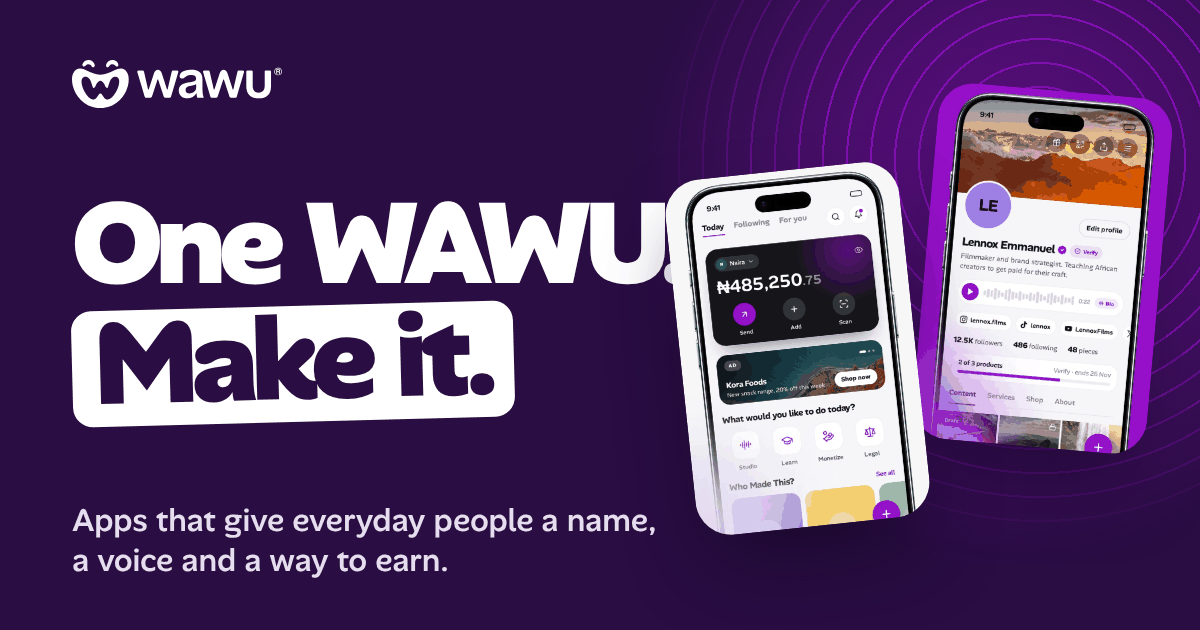
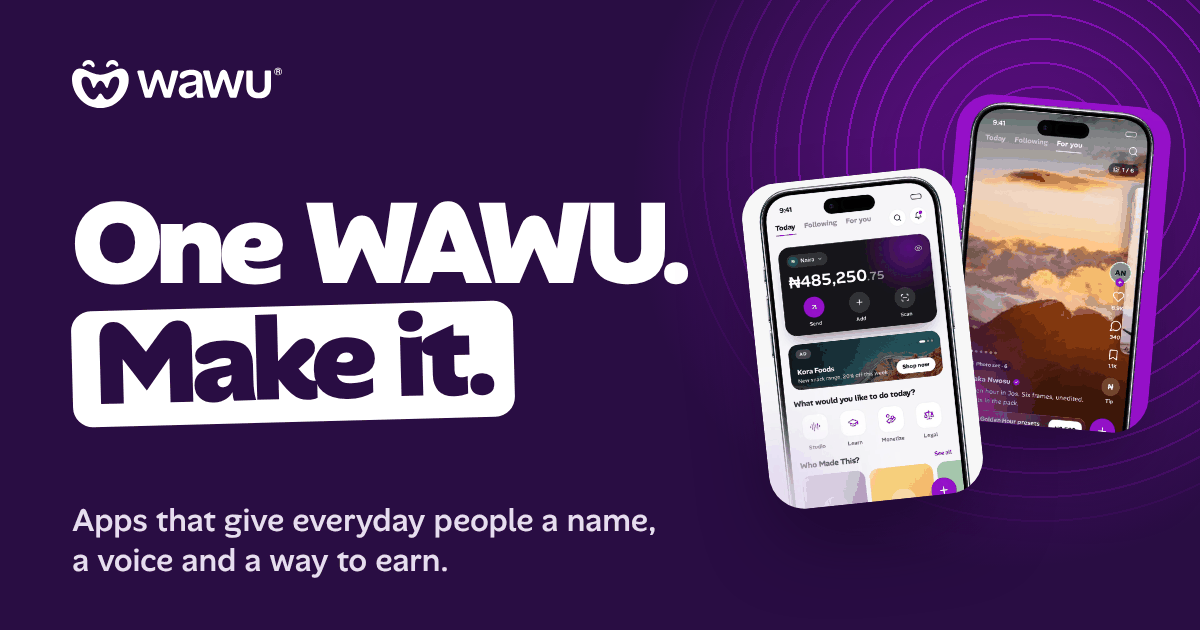
BRAND-SITE round 1: VOICES says only what the example says, no SLIDER 3
- VOICES page (and its tile, description and link-preview picture) follows the
  boss's example only: Talk, Listen, Vote; speak, no typing; others reply with
  reactions and comments. The anonymity question, "recorded live in the app" and
  "Your voice, live" are gone. Launch dates stay "coming soon". The two FAQ
  promises about store links and being first to know are gone from both app
  pages.
- SLIDER 3 (a Shop tab on the profile, against R-9) is not used anywhere: hero,
  home tile, gallery (now four screens) and the brand link-preview picture.
  The file is deleted.
- check-site-mode: live assertions that /wawu-theme.mp3 (audio) and
  /play/background-audio.mp4 (video/mp4) answer 200 in both modes; checks that
  SLIDER 3 and the VOICES claims stay out.
- /press no longer overflows at 320 px (grid track and the contact links).
- wawu-og-brand.png: the phones no longer cover the headline.
- .qa-audit specs now name the signed-in About page /settings/about.

Claude-Session: https://claude.ai/code/session_01YVWyVbutb6jEWsPXBkYeY9

Changed region(s): [[0.5242, 0.1206, 0.9867, 0.8444]]

diff --git a/src/app/(site)/voices/page.tsx b/src/app/(site)/voices/page.tsx
@@ -13,29 +13,28 @@ import { OG_IMAGES, pageMetadata } from "../_lib/page-metadata";
 
 export const metadata: Metadata = pageMetadata({
   title: "VOICES · Everybody gets a voice · WAWU",
-  description: "VOICES is a voice-first app by WAWU where everybody gets a voice. Talk, listen, react and gist.",
+  description: "VOICES is a voice-first app by WAWU where everybody gets a voice. Talk, listen, vote and gist.",
   path: "/voices",
   image: OG_IMAGES.voices,
   imageAlt: "VOICES, an app by WAWU",
 });
 
 const WHAT_IT_IS = [
-  { title: "Talk.", body: "Say what you think in your own voice, recorded live in the app." },
+  { title: "Talk.", body: "Say what you think in your own voice." },
   { title: "Listen.", body: "Hear what people are saying about the things that matter." },
-  { title: "React.", body: "Answer with an emoji or a typed reply, and join the gist." },
+  { title: "Vote.", body: "Pick a side, see where the conversation is heading, and join in." },
 ] as const;
 
 const HOW_IT_WORKS = [
   { title: "Pick a topic.", body: "Choose the things you care about." },
   { title: "Speak.", body: "Record your voice. No typing needed." },
-  { title: "Join the gist.", body: "Hear others, react and reply." },
+  { title: "Discuss and vote.", body: "Hear others, react and vote." },
 ] as const;
 
 const FAQ = [
-  { question: "When does it open?", answer: "Soon. VOICES is coming to the App Store and Google Play, and this page will carry the store links the day it opens." },
-  { question: "Do I have to type?", answer: "No. You post by speaking. Replies are typed, and reactions are emojis." },
-  { question: "Can I stay anonymous?", answer: "Yes. You can post as Anonymous, with a masked voice and no trace on your profile." },
-  { question: "Where do I get it?", answer: "On the App Store and Google Play. Register now and you will be first to know." },
+  { question: "When does it go live?", answer: "VOICES is coming soon on the App Store and Google Play." },
+  { question: "Do I have to type?", answer: "No. You speak. Others can reply with reactions and comments." },
+  { question: "Where do I get it?", answer: "On the Google Play Store and the Apple App Store, coming soon." },
 ] as const;
 
 export default function VoicesPage() {
@@ -48,7 +47,7 @@ export default function VoicesPage() {
         sub={
           <>
             <span className="mb-2 block text-[clamp(1.6rem,3.4vw,2.2rem)] font-extrabold tracking-[-0.02em] text-white">VOICES</span>
-            Everybody gets a voice. Talk, listen, react and gist.
+            Everybody gets a voice. Talk, listen, vote and gist.
           </>
         }
         aside={
@@ -57,7 +56,7 @@ export default function VoicesPage() {
               <span className="grid h-14 w-14 shrink-0 place-items-center rounded-full bg-white text-site-green">
                 <MicIcon className="h-7 w-7" />
               </span>
-              <span className="text-[17px] font-bold text-white">Your voice, live</span>
+              <span className="text-[17px] font-bold text-white">Everybody gets a voice.</span>
             </div>
             <WaveBars className="h-[130px]" barClassName="bg-site-mint" />
           </div>

diff --git a/src/app/(site)/press/page.tsx b/src/app/(site)/press/page.tsx
@@ -21,26 +21,26 @@ export default function PressPage() {
       <PageHero eyebrow="Press and media" title="Press." sub="What WAWU is, the logo files and who to talk to." />
 
       <section className="py-20 sm:py-28">
-        <Wrap className="grid gap-14 lg:grid-cols-[1.3fr_1fr] lg:gap-20">
-          <div>
+        <Wrap className="grid grid-cols-1 gap-14 lg:grid-cols-[1.3fr_1fr] lg:gap-20">
+          <div className="min-w-0">
             <h2 className="m-0 mb-5 text-[clamp(1.9rem,4vw,2.8rem)] font-extrabold leading-[1] tracking-[-0.035em] text-site-deep">About WAWU</h2>
             <p className="m-0 max-w-[56ch] text-[clamp(1.1rem,2vw,1.3rem)] leading-relaxed text-site-body">
               WAWU builds apps that give everyday people a name, a voice and a way to earn. Its apps include WHO MADE THIS?, the creators and professionals platform, and VOICES, where everybody gets a voice. Built in Africa. Open to the world.
             </p>
             <p className="mb-0 mt-5 text-[16px] text-site-mute">Company: {COMPANY}</p>
           </div>
-          <div id="contact" className="rounded-[28px] border-2 border-site-line bg-white p-7 sm:p-8">
+          <div id="contact" className="min-w-0 rounded-[28px] border-2 border-site-line bg-white p-5 sm:p-8">
             <h2 className="m-0 mb-5 text-[clamp(1.5rem,3vw,2rem)] font-extrabold tracking-[-0.03em] text-site-deep">Media contact</h2>
             <ul className="m-0 flex list-none flex-col gap-4 p-0">
               <li>
-                <a href={`mailto:${CONTACT_EMAIL}?subject=${encodeURIComponent("Press enquiry")}`} className="inline-flex items-center gap-3 text-[17px] font-bold text-site-purple underline-offset-4 hover:text-site-purple-hover hover:underline">
-                  <MailIcon className="h-5 w-5" />
+                <a href={`mailto:${CONTACT_EMAIL}?subject=${encodeURIComponent("Press enquiry")}`} className="inline-flex items-center gap-3 text-[15px] font-bold [overflow-wrap:anywhere] min-[380px]:text-[17px] text-site-purple underline-offset-4 hover:text-site-purple-hover hover:underline">
+                  <MailIcon className="h-5 w-5 shrink-0" />
                   {CONTACT_EMAIL}
                 </a>
               </li>
               <li>
-                <a href={WHATSAPP_URL} className="inline-flex items-center gap-3 text-[17px] font-bold text-site-purple underline-offset-4 hover:text-site-purple-hover hover:underline">
-                  <ChatIcon className="h-5 w-5" />
+                <a href={WHATSAPP_URL} className="inline-flex items-center gap-3 text-[15px] font-bold [overflow-wrap:anywhere] min-[380px]:text-[17px] text-site-purple underline-offset-4 hover:text-site-purple-hover hover:underline">
+                  <ChatIcon className="h-5 w-5 shrink-0" />
                   WhatsApp {WHATSAPP_DISPLAY}
                 </a>
               </li>

diff --git a/src/app/(site)/_components/ScreenGallery.tsx b/src/app/(site)/_components/ScreenGallery.tsx
@@ -1,10 +1,10 @@
 import { WMT_SCREENS, ScreenTile, type ScreenId } from "./ScreenTile";
 
-const ORDER: ScreenId[] = ["home", "profile", "feed", "creator", "unlock"];
+const ORDER: ScreenId[] = ["home", "feed", "creator", "unlock"];
 
 /**
- * The five screens in a row. On a phone the row scrolls sideways (it can be
- * focused and scrolled with the arrow keys); from a tablet up all five fit.
+ * The four screens in a row. On a phone the row scrolls sideways (it can be
+ * focused and scrolled with the arrow keys); from a tablet up all four fit.
  */
 export function ScreenGallery() {
   return (
@@ -12,11 +12,11 @@ export function ScreenGallery() {
       role="region"
       aria-label="Screens from WHO MADE THIS?"
       tabIndex={0}
-      className="-mx-5 flex snap-x snap-mandatory gap-4 overflow-x-auto px-5 pb-6 sm:-mx-8 sm:px-8 md:mx-0 md:grid md:grid-cols-5 md:gap-4 md:overflow-visible md:px-0 lg:gap-6 [scrollbar-width:none] [&::-webkit-scrollbar]:hidden"
+      className="-mx-5 flex snap-x snap-mandatory gap-4 overflow-x-auto px-5 pb-6 sm:-mx-8 sm:px-8 md:mx-0 md:grid md:grid-cols-4 md:gap-4 md:overflow-visible md:px-0 lg:gap-6 [scrollbar-width:none] [&::-webkit-scrollbar]:hidden"
     >
       {ORDER.map((id) => (
         <figure key={id} className="m-0 w-[68%] shrink-0 snap-center sm:w-[44%] md:w-auto">
-          <ScreenTile id={id} sizes="(min-width: 1200px) 220px, (min-width: 768px) 18vw, 68vw" />
+          <ScreenTile id={id} sizes="(min-width: 1200px) 270px, (min-width: 768px) 22vw, 68vw" />
           <figcaption className="mt-4 text-[14.5px] leading-snug text-site-mute">{WMT_SCREENS[id].caption}</figcaption>
         </figure>
       ))}

diff --git a/src/app/(site)/_components/AppTiles.tsx b/src/app/(site)/_components/AppTiles.tsx
@@ -27,7 +27,7 @@ export function AppTiles() {
             <ArrowIcon className="h-[18px] w-[18px] transition-transform duration-200 group-hover:translate-x-1 motion-reduce:transition-none" />
           </span>
           <div aria-hidden="true" className="pointer-events-none absolute -bottom-24 -right-4 w-[56%] max-w-[300px] rotate-[7deg] transition-transform duration-500 group-hover:rotate-[4deg] motion-reduce:transition-none sm:right-6 sm:w-[44%]">
-            <ScreenTile id="profile" sizes="(min-width: 768px) 260px, 50vw" className="shadow-site-phone" />
+            <ScreenTile id="unlock" sizes="(min-width: 768px) 260px, 50vw" className="shadow-site-phone" />
           </div>
         </Link>
       </li>
@@ -40,7 +40,7 @@ export function AppTiles() {
           <StoreStatus app="voices" tone="dark" linkless className="self-start text-[13px]" />
           <p className="m-0 mt-8 text-[clamp(3.4rem,8vw,5.5rem)] font-extrabold leading-[0.9] tracking-[-0.045em]">Say it.</p>
           <p className="m-0 mt-3 text-[18px] font-bold tracking-[0.02em]">VOICES</p>
-          <p className="m-0 mt-2 max-w-[24ch] text-[17px] leading-snug text-white/90">Everybody gets a voice. Talk, listen, react and gist.</p>
+          <p className="m-0 mt-2 max-w-[24ch] text-[17px] leading-snug text-white/90">Everybody gets a voice. Talk, listen, vote and gist.</p>
           <span className="relative z-10 mt-6 inline-flex items-center gap-2 text-[16px] font-bold">
             See the app
             <ArrowIcon className="h-[18px] w-[18px] transition-transform duration-200 group-hover:translate-x-1 motion-reduce:transition-none" />

diff --git a/src/app/(site)/who-made-this/page.tsx b/src/app/(site)/who-made-this/page.tsx
@@ -34,9 +34,9 @@ const HOW_IT_WORKS = [
 
 const FAQ = [
   { question: "Does it cost anything to join?", answer: "Signing up costs nothing. A verified tick is a paid extra: it shows people you are real and lifts your upload limits." },
-  { question: "When does it open?", answer: "Soon. WHO MADE THIS? is coming to the App Store and Google Play, and this page will carry the store links the day it opens." },
+  { question: "When does it go live?", answer: "WHO MADE THIS? is coming soon on the App Store and Google Play." },
   { question: "Who is it for?", answer: "Creators, professionals, founders, artists and builders: anyone with something to show or sell." },
-  { question: "Where do I get it?", answer: "On the App Store and Google Play. Register now and you will be first to know." },
+  { question: "Where do I get it?", answer: "On the Google Play Store and the Apple App Store, coming soon." },
 ] as const;
 
 export default function WhoMadeThisPage() {
@@ -80,7 +80,7 @@ export default function WhoMadeThisPage() {
 
       <section aria-labelledby="screens-title" className="border-y border-site-line bg-white py-20 sm:py-28">
         <Wrap>
-          <SectionHead eyebrow="In the app" title={<span id="screens-title">See it.</span>} lead="Five screens from WHO MADE THIS?: your wallet, your profile, the feed, creators and paid work." />
+          <SectionHead eyebrow="In the app" title={<span id="screens-title">See it.</span>} lead="Four screens from WHO MADE THIS?: your wallet, the feed, creators and paid work." />
           <div className="mt-12">
             <ScreenGallery />
           </div>

diff --git a/src/app/(site)/_components/ScreenTile.tsx b/src/app/(site)/_components/ScreenTile.tsx
@@ -1,12 +1,11 @@
 import Image from "next/image";
 import { cn } from "@/lib/cn";
 
-export type ScreenId = "home" | "profile" | "feed" | "creator" | "unlock";
+export type ScreenId = "home" | "feed" | "creator" | "unlock";
 
-/** The five WHO MADE THIS? screens the owner approved for the web (the store pictures, cropped to the phone). */
+/** The four WHO MADE THIS? screens the owner approved for the web (the store pictures, cropped to the phone). */
 export const WMT_SCREENS: Record<ScreenId, { alt: string; caption: string }> = {
   home: { alt: "The Today screen in WHO MADE THIS?: a naira wallet with Send, Add and Scan, and shortcuts to Studio, Learn, Monetize and Legal.", caption: "Today: your wallet and everything you can do next." },
-  profile: { alt: "A creator profile in WHO MADE THIS?: a verified name, a voice bio, social links and a grid of content.", caption: "Your profile: your name on all of your work." },
   feed: { alt: "The For you feed in WHO MADE THIS?: a photo post with like, comment, save and tip buttons.", caption: "For you: work from creators, in photos, video and audio." },
   creator: { alt: "A creator card in WHO MADE THIS?: followers, posts and rating, with a Follow button.", caption: "Follow the people whose work you like." },
   unlock: { alt: "A paid PDF in WHO MADE THIS?: a preview of the cover, the price in naira and an Unlock button.", caption: "Unlock paid work: preview first, then pay from your wallet." },

diff --git a/src/app/(site)/about/page.tsx b/src/app/(site)/about/page.tsx
@@ -35,7 +35,7 @@ export default function AboutPage() {
       />
 
       <section className="py-20 sm:py-28">
-        <Wrap className="grid gap-14 lg:grid-cols-2 lg:gap-20">
+        <Wrap className="grid grid-cols-1 gap-14 lg:grid-cols-2 lg:gap-20">
           <div>
             <h2 className="m-0 mb-5 text-[clamp(1.9rem,4vw,2.8rem)] font-extrabold leading-[1] tracking-[-0.035em] text-site-deep">What we do.</h2>
             <p className="m-0 max-w-[52ch] text-[clamp(1.1rem,2vw,1.3rem)] leading-relaxed text-site-body">

diff --git a/src/app/(site)/_components/HeroScreens.tsx b/src/app/(site)/_components/HeroScreens.tsx
@@ -12,7 +12,7 @@ export function HeroScreens() {
         <ScreenTile id="home" priority sizes="(min-width: 1024px) 270px, 200px" />
       </div>
       <div className="site-float absolute right-0 top-0 w-[56%] rotate-[4deg] [--site-tilt:4deg]">
-        <ScreenTile id="profile" priority sizes="(min-width: 1024px) 270px, 200px" />
+        <ScreenTile id="feed" priority sizes="(min-width: 1024px) 270px, 200px" />
       </div>
     </div>
   );

diff --git a/docs/BRAND-SITE.md b/docs/BRAND-SITE.md
@@ -7,7 +7,7 @@ wawuafrica.com is the WAWU brand website: a landing site for the company and its
 | Path | File | What it is |
 |---|---|---|
 | `/` | `src/app/(site)/page.tsx` | Home: hero with the rotating word, marquee, known for, the two apps, conference, how we build, partner strip, build with WAWU |
-| `/who-made-this` | `src/app/(site)/who-made-this/page.tsx` | App page: what it is, five app screens, how it works, conference, questions |
+| `/who-made-this` | `src/app/(site)/who-made-this/page.tsx` | App page: what it is, four app screens, how it works, conference, questions |
 | `/voices` | `src/app/(site)/voices/page.tsx` | App page in VOICES green (the only green on the site) |
 | `/about` | `src/app/(site)/about/page.tsx` | What we do, how we build, the apps, the company (WAWU Technology Ltd, no address) |
 | `/partners` | `src/app/(site)/partners/page.tsx` | Who we work with, the Dreamax x WAWU feature, the 14-logo wall, contact |
@@ -35,7 +35,7 @@ Order: ISN Hubs, Pistis Life and Leadership Institute (PLLI), Enterprise Develop
 
 ## Pictures and downloads
 
-- App screens: `wawu-wmt-screen-{home,profile,feed,creator,unlock}.webp`, the owner's store pictures SLIDER 1, 3, 4, 5, 6 cropped to the phone. SLIDER 2 (a physical card and "To cash") is not used.
+- App screens: `wawu-wmt-screen-{home,feed,creator,unlock}.webp`, the owner's store pictures SLIDER 1, 4, 5 and 6 cropped to the phone. SLIDER 2 (a physical card and "To cash") is not used. SLIDER 3 is not used either: it shows a Shop tab on the profile, and R-9 says profiles have no Shop tab.
 - Logo pack: `wawu-brand-{wordmark,icon}-{colour,purple,white}.{svg,png}`. Wordmark 1 is deep purple, 2 white, 3 full colour. BASKET and BEAUTY are not shown.
 - Link previews: `wawu-og-{brand,who-made-this,voices}.png` (1200 x 630).
 - All of these are root files in `public/`, because join-only mode serves root files with a picture extension and nothing deeper. `scripts/check-site-mode.mjs` lists them.
@@ -58,6 +58,6 @@ Order: ISN Hubs, Pistis Life and Leadership Institute (PLLI), Enterprise Develop
 - "Live 24 Oct / 26 Oct" chips are gone (not live): "Coming soon on the App Store and Google Play" and Register.
 - "Sign up free" became "Signing up costs nothing" (the copy check bans the word "free").
 - A verified tick "unlocks uploading" was wrong (R-7: free accounts upload too, the tick lifts limits): "lifts your upload limits".
-- VOICES "vote" became "react" (reactions are emojis and replies are typed; only a sponsored Voice Poll asks a question). "Get hired" became "offer your services".
+- The VOICES page says only what the boss's example says (Talk, Listen, Vote; speak, no typing; others reply with reactions and comments); the launch date is now "coming soon". "Get hired" became "offer your services".
 - Every `tbd` highlight is gone: no address (the company name only), no partnership form, no press kit placeholder.
 - New: partner logo wall, the Dreamax x WAWU feature (the slides' text, not the slide pictures), app screens, FAQ on both app pages, per-page title, description and link-preview picture, sitemap.

diff --git a/.qa-audit/reference-pairing.md b/.qa-audit/reference-pairing.md
@@ -124,7 +124,7 @@ coverage gap to state rather than to paper over.
 | `/learn/guides`, `/learn/guides/[id]`, `/learn/playbook` | |
 | `/shop/browse/[category]`, `/shop/product/[slug]`, `/shop/checkout`, `/shop/orders`, `/shop/orders/[orderId]`, `/shop/wow` | Only the Marketplace landing is referenced |
 | `/sign-in`, `/sign-up`, `/forgot-password`, `/reset-password` | |
-| `/about`, `/terms`, `/privacy`, `/privacy/policy`, `/privacy/blocked` | |
+| `/settings/about`, `/terms`, `/privacy`, `/privacy/policy`, `/privacy/blocked` | |
 | `/payment/return` | Flutterwave return leg |
 
 ## Uncertainty worth recording
